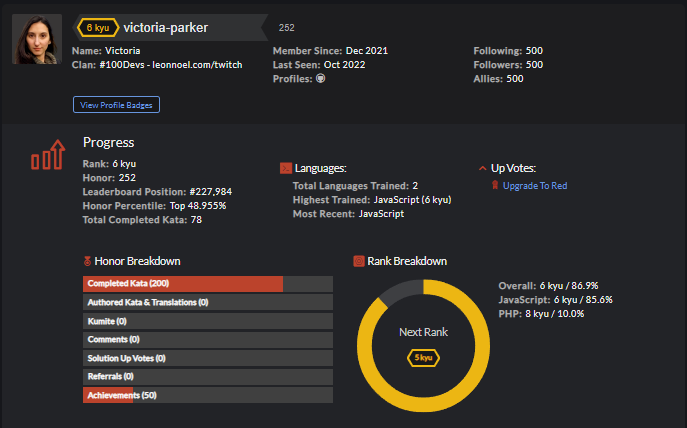
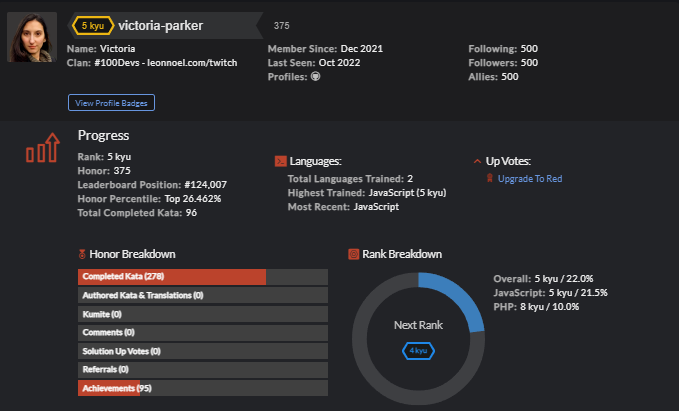
readme and readme pic updated

diff --git a/README.md b/README.md
@@ -1,5 +1,5 @@
 # CodeWars Challenges
-This repository is filled with codewars challenges (katas). Currently Ranked #227984 on the global leaderboard, Completed over 70+ challenges and pushed at least 5 solutions every week.
+This repository is filled with codewars challenges (katas). Currently Ranked #124007 on the global leaderboard, Completed over 90+ challenges and pushed at least 5 solutions every week.
 
 **Link to my codewars profile:** https://www.codewars.com/users/victoria-parker
 
